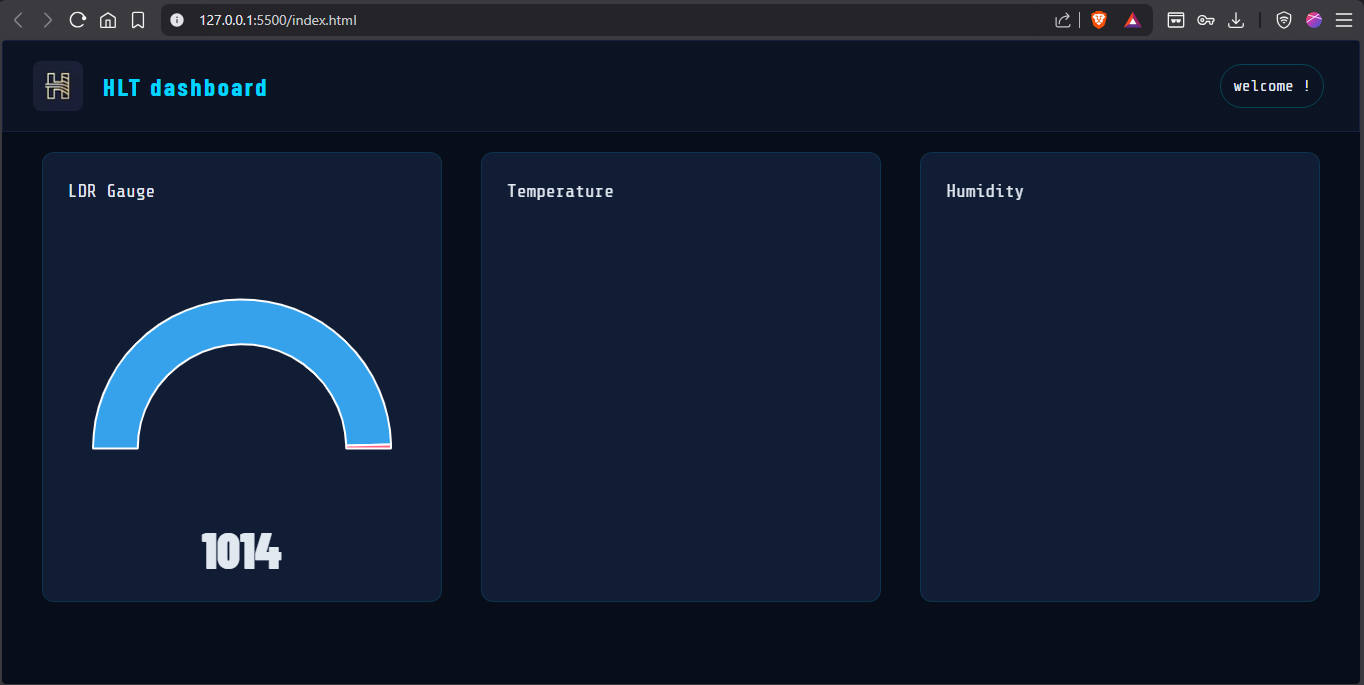
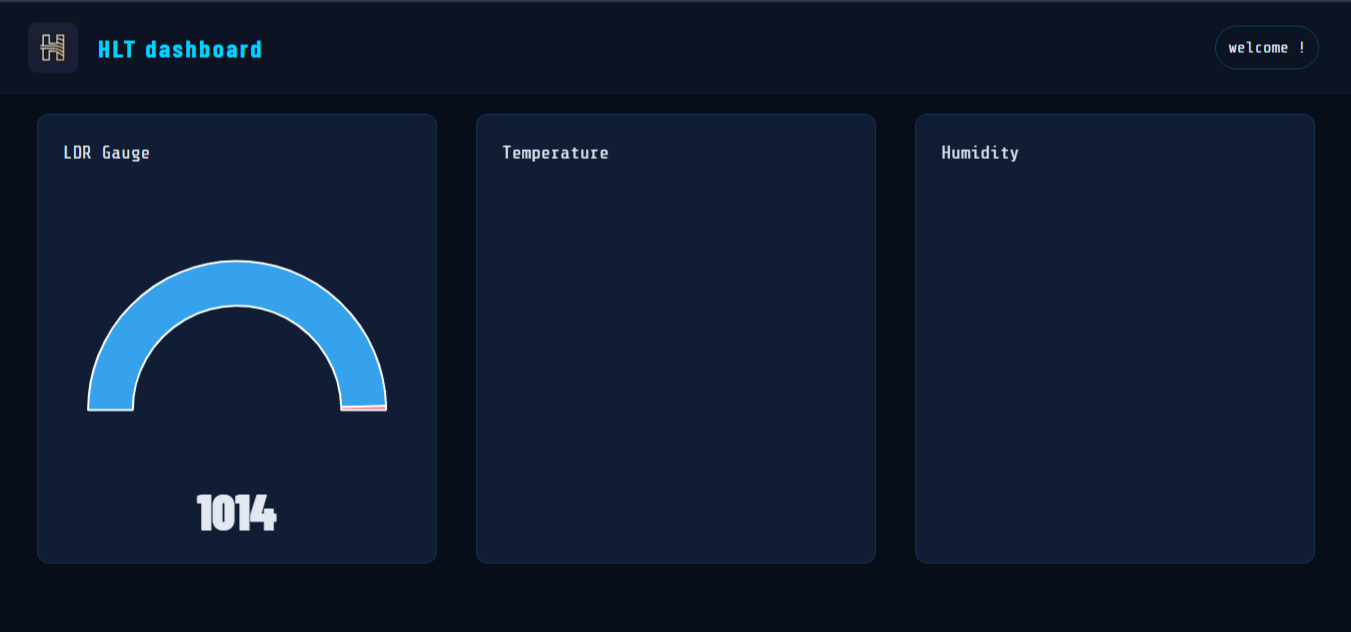
Fix responsive design

diff --git a/mediaquries.css b/mediaquries.css
@@ -1,0 +1,258 @@
+@media (max-width: 1024px) {
+    .heading h1{
+        font-size: 42px;
+    }
+
+    .cards{
+        flex-wrap: wrap;
+        justify-content: center;
+    }
+
+    .sub-title{
+        flex-direction: column;
+    }
+
+    .points-img img{
+        box-shadow: 0 0 32px var(--accent);
+    }
+    
+    .key-card{
+        width: 45%;
+    }
+
+    .sample-dash{
+        flex-direction: column;
+        align-items: center;
+    }
+
+    .logo{
+        height: 50px;
+    }
+
+    .divs-line{
+        height: 300px;
+        margin: auto;
+    }
+
+
+    .works-card{
+        flex-wrap: wrap;
+        justify-content: center;
+    }
+
+    .flow-card{
+        width: 45%;
+    }
+
+    .stack-cards{
+        flex-direction: column;
+        align-items: center;
+    }
+
+    .stack-cards .key-card{
+        width: 80%;
+    }
+
+    .footer-top{
+        flex-wrap: wrap;
+        gap: 30px;
+    }
+}
+
+@media (max-width: 760px) {
+    nav{
+        /* flex-direction: column; */
+        height: auto;
+        padding: 10px;
+        gap: 10px;
+    }
+
+    .cta-btn{
+        flex-wrap: wrap;
+        justify-content: center;
+    }
+
+    .heading h1{
+        font-size: 28px;
+        line-height: 1.3;
+    }
+
+    .heading p{
+        font-size: 12px;
+    }
+
+    #hero{
+        padding: 10px;
+        min-height: 30vh;
+    }
+
+    /* OVERVIEW */
+    #overview{
+        padding: 10px;
+    }
+    .sub-title {
+        grid-template-columns: 1fr;
+        text-align: center;
+    }
+
+    .overview-title p, .overview2-title p{
+        font-size: 15px;
+    }
+
+    .overview-title h3, .overview2-title h3{
+        font-size: 35px;
+    }
+    /* key capabilities */
+    #key-cap{
+        padding: 10px;
+    }
+
+    .cards{
+        /* flex-direction: column; */
+        flex-wrap: wrap;
+    }
+
+    /* DASHBOARD */
+    #dash-prev{
+        padding: 10px;
+    }
+    .sample-dash {
+        flex-direction: column;
+    }
+
+    .dash-img-1 img,
+    .dash-img-2 img {
+        width: 100%;
+        height: auto;
+    }
+
+    #dash-prev .sub-title p{
+        text-align: left;
+    }
+
+    /* HOW IT WORKS */
+    #how-works{
+        padding: 10px;
+    }
+    .works-card {
+        flex-direction: column;
+        align-items: center;
+    }
+
+    .flow-card {
+        width: 100%;
+    }
+
+    /* USE CASE */
+    #use-case{
+        padding: 10px;
+    }
+    .uc-card {
+        flex-direction: column;
+        text-align: center;
+    }
+
+    #use-case .sub-title p{
+        text-align: left;
+    }
+
+    /* SAAS */
+    #saas-cap{
+        padding: 10px;
+    }
+    .divs {
+        flex-direction: column;
+    }
+
+    .divs-line {
+        width: 220px;
+        height: 4px;
+        margin: 0;
+    }
+
+    .divs{
+        gap: 20px;
+    }
+
+    .d-line{
+        padding: 0 20px;
+    }
+
+    /* INTEGRATION */
+    #integration{
+        padding: 10px;
+    }
+    .stack-cards {
+        flex-direction: column;
+    }
+
+    .stack-cards .key-card {
+        width: 100%;
+    }
+
+    /* WHY US */
+    #why-us{
+        padding: 10px;
+    }
+    .why-us-card {
+        flex-direction: column;
+        text-align: center;
+    }
+
+    /* FOOTER */
+    .footer-top {
+        flex-direction: column;
+        text-align: center;
+        gap: 30px;
+    }
+
+    .footer-brand p{
+        max-width: max-content;
+    }
+
+    .footer-bottom {
+        flex-direction: column;
+        text-align: center;
+        gap: 10px;
+    }
+}
+
+@media (max-width: 480px) {
+
+    #hero{
+        min-height: 90vh;
+        margin-top: 30px;
+    }
+
+    #hero .cta-btn{
+        flex-direction: column;
+        width: 80%;
+        margin: auto;
+    }
+
+    .heading h1 {
+        font-size: 25px;
+    }
+
+    .cards{
+        flex-direction: column;
+    }
+
+    .key-card{
+        width: 100%;
+    }
+
+    .top-card p {
+        font-size: 11px;
+    }
+
+    .overview-title h3,
+    .overview2-title h3 {
+        font-size: 26px;
+    }
+
+    .btn-1, .btn-2 {
+        padding: 6px 14px;
+        font-size: 13px;
+    }
+}

diff --git a/style.css b/style.css
@@ -198,8 +198,8 @@ img{
     padding: 10px 20px;
     color: var(--bg);
     width: 100%;
-    display: grid;
-    grid-template-columns: repeat(auto-fit, minmax(200px,1fr));
+    display: flex;
+    /* grid-template-columns: repeat(auto-fit, minmax(200px,1fr)); */
     gap: 40px;  
 }
 
@@ -210,7 +210,7 @@ img{
 .points-img img{
     box-shadow: 100px -50px 100px var(--accent);
     margin: auto;
-    height: 360px;
+    /* height: 360px; */
     width: 100%;
     border: rgba(128, 128, 128, 0.507) 1px solid;
 }
@@ -228,8 +228,7 @@ img{
 #key-cap{
     min-height: 80vh;
     height: auto;
-    margin: 20px;
-    padding: 20px;
+    padding: 40px;
     position: relative;
     margin-top: 30px;
     animation: fadeInUp  ease-out;
@@ -259,7 +258,7 @@ img{
     background: var(--panel);
     padding: 20px;
     border-radius: 15px;
-    width: 225px;
+    /* width: 225px; */
     border: var(--border) 1px solid;
     transition: all 200ms ease;
 }
@@ -294,6 +293,8 @@ img{
 
 .cards{
     display: flex;
+    flex-wrap: wrap;
+    /* flex-direction: column; */
     justify-content: space-between;
     gap: 20px;
     padding: 20px;
@@ -315,7 +316,6 @@ img{
     color: var(--text);
     text-decoration: none;
     font-weight: 700;
-    font-family: 'Syne';
     padding: 15px 35px;
 }
 
@@ -345,8 +345,7 @@ img{
 #how-works{
     min-height: 80vh;
     height: auto;
-    margin: 20px;
-    padding: 20px;
+    padding: 40px;
     position: relative;
     margin-top: 30px;
     animation: fadeInUp  ease-out;    
@@ -461,8 +460,7 @@ img{
 #saas-cap{
     min-height: 40vh;
     height: auto;
-    margin: 20px;
-    padding: 20px;
+    padding: 40px;
     position: relative;
     margin-top: 30px;
     animation: fadeInUp  ease-out;    
@@ -527,8 +525,7 @@ h6{
 #why-us{
     min-height: 80vh;
     height: auto;
-    margin: 20px;
-    padding: 20px;
+    padding: 40px;
     position: relative;
     margin-top: 30px;
     animation: fadeInUp  ease-out;  
@@ -561,19 +558,13 @@ h6{
 }
 
 .logo{
-    background: var(--bg);
-    width: 60px;
-    height: 60px;
-    border-radius: 30px;
+    padding: 10px;
     font-size: 30px;
     color: var(--accent);
-    align-items: center;
-    display: flex;
-    justify-content: center;
 }
 
 .logo i{
-    width: 35px;
+    width: 30px;
 }
 
 .use-card{

diff --git a/index.html b/index.html
@@ -5,6 +5,7 @@
     <meta name="viewport" content="width=device-width, initial-scale=1.0">
     <title>IOT Platform</title>
     <link rel="stylesheet" href="style.css">
+    <link rel="stylesheet" href="mediaquries.css">
     <link rel="stylesheet" href="https://cdnjs.cloudflare.com/ajax/libs/font-awesome/6.5.0/css/all.min.css">
 </head>
 <body>
